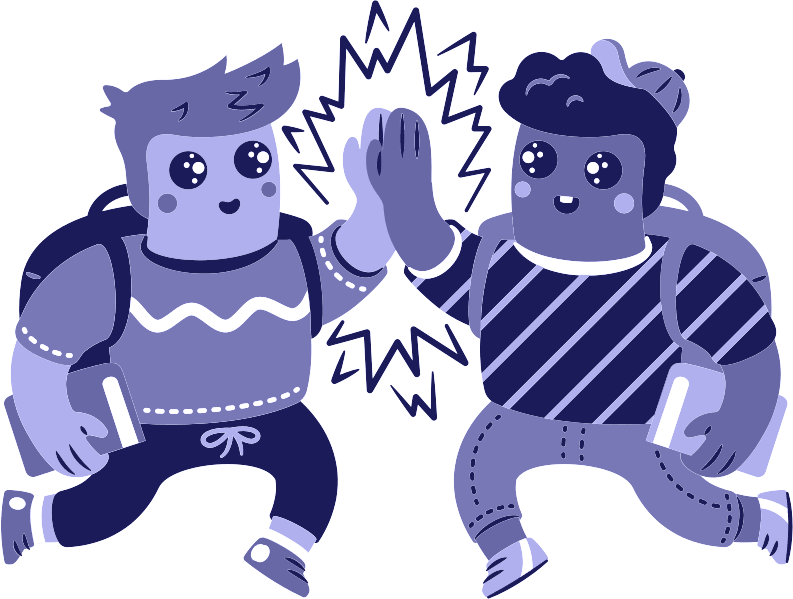
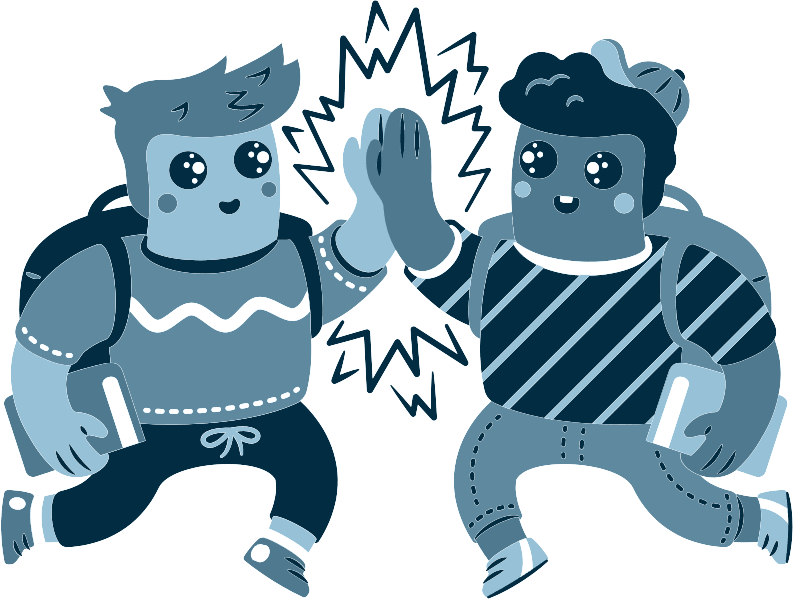
Edited CUI.php copywriting and styling to match the new evaluation content

diff --git a/js/cui.js b/js/cui.js
@@ -146,7 +146,7 @@ let convo = {
   }, // end required "ice" conversation object
 
   "intro_1" : {
-    "says" : [ "Exactly, well done.", "Now let's get to business. Here's what you should know about the project before you see the design:", "<b class='with-image'><img src='/i/feather/tag.svg' alt='Tag icon'>About this Project</b> Bol.com is the leading online shop in the Netherlands for books, toys and electronics that serve over 10.5 million customers."],
+    "says" : [ "Exactly, well done.", "Now let's get to business. Here's what you should know about the project before you see the design:", "<b class='with-image'><img src='/i/feather/tag.svg' alt='Tag icon'>About this Project</b> The Government.nl website is the place where you'll find reliable information on what the Dutch government — together with other organisations — is doing. The website contains the latest official information on pressing issues and their legislation.", "Please note that the website’s contents that are used for this evaluation <b>have been edited</b> to introduce a number of usability issues — the content that you see is not representative for the Government.nl website."],
     "reply": [
       {
         "question": "Tell me more.",
@@ -156,7 +156,7 @@ let convo = {
   }, // end conversation object
 
   "intro_2" : {
-    "says" : [ "<b class='with-image'><img src='/i/feather/users.svg' alt='Users icon'>Target Users</b> Bol.com mainly serves customers in the Netherlands (72%) and Belgium (14%), across all age groups.", "That's all for now. Whenever you're ready, you can click on the next button to unveil the design."],
+    "says" : [ "<b class='with-image'><img src='/i/feather/users.svg' alt='Users icon'>Target Users</b> With Government.nl, the Dutch government seeks to provide online information that is user friendly and accessible to all types of visitors.", "That's all for now. Whenever you're ready, you can click on the next button to unveil the design."],
     "reply": [
       {
         "question": "Show me!",
@@ -166,7 +166,7 @@ let convo = {
   }, // end conversation object
 
   "intro_3" : {
-    "says" : [ "See? The interface just became a whole lot more visible.", "If you want, you can get a general impression of the design: try moving your cursor to the frame and scroll.", "If you're ready to continue the evaluation, just let me know!"],
+    "says" : [ "See? The interface just became a whole lot more visible.", "If you want, you can get a general impression of the design: try moving your cursor to the frame and scroll up or down to see what happens.", "If you're ready to continue the evaluation, just let me know!"],
     "reply": [
       {
         "question": "I’m ready!", /* Careful: framework does not support ' characters in question. Use the ’ character instead. */
@@ -186,7 +186,7 @@ let convo = {
   }, // end conversation object
 
   "tasks_2" : {
-    "says" : [ "Here's the scenario you should act out using the prototype:", "<i>Your name is Frederic — a 62 year old Dutch male from the Veldhoven area. Your Epson printer just broke down for the last time, and is in dire need of replacement.</i>", "1. You opened the Bol.com page to order a new one. However, there are some restrictions: The printer should <span class='underlined'>cost less than €90</span>. It should be able to <span class='underlined'>print in full-colour</span>. Finally, <span class='underlined'>you don't want an Epson brand printer</span>.", "2. Your task is to use the Bol.com website to find a suitable new printer, and add it to your shopping basket.", "When you’re ready to start the task, click on the button. "],
+    "says" : [ "Here's the scenario you should act out using the prototype:", "<i>Your name is Frederic: a 44 year old expat living in the Eindhoven area. As the owner of a business without employees (ZZP), the uncertain times caused by the Corona Crisis have put a strain on your financial situation.</i>", "1. You recall that the prime minister discussed options for financial support in a press conference, some time ago. However, you forgot what it was called, and whether it is applicable for you.", "2. Your task is to use the government.nl website to find reliable information on the financial support: you want to know the measure's name and the amount of financial support you can get.", "When you’re ready to start the task, click on the button."],
     "reply": [
       {
         "question": "I’m ready.",
@@ -210,7 +210,7 @@ let convo = {
   }, // end conversation object
 
   "tasks_4a" : {
-    "says" : [ "That's awesome!", "I have a few questions about how you experienced using the prototype.", "I will be sharing <b>ten general principles</b> on what make a user interface usable. For each principle, please state <b>whether you think there is a problem.</b>", "You can do so using the scale of <b>0 to 4</b>, where '0' means <b>no problem</b> and '4' signifies <b>a usability catastrophe</b>. Hover over the ratings with your cursor to see a more elaborate description.", "Finally, if you believe the question is irrelevant or cannot be answered, please answer ’0’."],
+    "says" : [ "That's awesome!", "I have a few questions about how you experienced using the prototype.", "I will be sharing <b>ten general principles</b> on what make a user interface usable. For each principle, please recall your experience with the prototype and state <b>whether you think there is a problem.</b>", "You can do so using the scale of <b>0 to 4</b>, where '0' means <b>no problem</b> and '4' signifies <b>a usability catastrophe</b>. Hover over the ratings with your cursor to see a more elaborate description.", "Finally, if you believe the question is irrelevant or cannot be answered, please answer ’0’."],
     "reply": [
       {
         "question": "Let’s go!",

diff --git a/app/backend/success-styling.css b/app/backend/success-styling.css
@@ -9,7 +9,7 @@
 .hero {
   width: 100%;
   height: 100vh;
-  background: linear-gradient(180deg, #FFFFFF 0%, #F3F3FC 100%);
+  background: linear-gradient(180deg, #FFFFFF 0%, hsla(200, 60%, 97%, 1) 100%);
   display: flex;
   justify-content: center;
 }
@@ -37,7 +37,7 @@ b {
 }
 
 h1 {
-  color: #0000A3;
+  color: hsl(200, 99%, 31%);
   font-size: 2.2em;
   font-weight: 600;
   margin-bottom: .8em;
@@ -54,8 +54,8 @@ p {
 }
 
 .stat {
-  background-color: #F3F3FC;
-  color: #0000A3;
+  background-color: hsl(200, 30%, 95%);
+  color: hsl(200, 99%, 31%);
   display: flex;
   justify-content: center;
   align-items: center;
@@ -92,10 +92,10 @@ p {
 .stat-buttons button {
   width: 100%;
   font-family: 'Sen', sans-serif;
-  background-color: #F3F3FC;
-  border: 1px solid #0000A3;
+  background-color: hsl(200, 30%, 94%);
+  border: 1px solid hsl(200, 99%, 31%);
   box-sizing: border-box;
-  color: #0000A3;
+  color: hsl(200, 99%, 31%);
   cursor: pointer;
   padding: .4em;
   font-size: 1em;
@@ -104,12 +104,12 @@ p {
 }
 
 .stat-buttons button.active {
-  background-color: #0000A3;
+  background-color: hsl(200, 99%, 31%);
   color: #fff;
 }
 
 .stat-buttons button:hover {
-  background-color: #0000A3;
+  background-color: hsl(200, 99%, 31%);
   color: #fff;
 }
 
@@ -125,7 +125,7 @@ p {
 }
 
 .call-to-action {
-  background-color: #0000A3;
+  background-color: hsl(200, 99%, 31%);
   color: #fff;
   box-sizing: border-box;
   cursor: pointer;

diff --git a/css/bubbles.css b/css/bubbles.css
@@ -10,8 +10,8 @@
 .bubble-container .input-wrap textarea {
 	width: calc(100% - 20px);
   font-family: "Sen", sans-serif;
-  color: var(--branding);
-  background: rgb(249, 248, 255);
+  color: hsla(200, 99%, 21%, 1);
+  background: hsla(200, 100%, 99%, 1);
   font-size: 1em;
   letter-spacing: .5px;
   font-weight: 400;
@@ -39,7 +39,7 @@
 }
 
 .bubble-container .input-wrap textarea::placeholder {
-  color: hsl(240, 24%, 56%);
+  color: hsl(200, 24%, 56%);
 }
 .bubble.reply-freeform {
 	margin: 0;
@@ -189,7 +189,7 @@
 .bubble,
 .bubble-typing {
   color: #212121;
-  background: hsla(246, 10%, 95%, 1);
+  background: hsla(200, 10%, 95%, 1);
   padding: 8px 16px;
   border-radius: 5px 15px 15px 15px;
   font-weight: 400;
@@ -293,7 +293,7 @@
 .dot_3 { animation-delay: 1.35s; }
 @keyframes bounce_dot {
 	0% {}
-	50% { background-color: hsl(246, 26%, 50%); }
+	50% { background-color: hsl(200, 26%, 50%); }
 	100% {}
 }
 
@@ -307,7 +307,7 @@
 	display: flex;
 	margin: .5em 0;
   padding-bottom: .5em;
-	border-bottom: 2px solid #cdcddc;
+	border-bottom: 2px solid hsla(200, 18%, 83%, 1)
 }
 
 .bubble .bubble-content b img {

diff --git a/app/backend/success.js b/app/backend/success.js
@@ -77,7 +77,7 @@ function checkUserPerformance() {
   }
 
   // For this case, the 'right' answers are problems in heuristics [1,4] and [9].
-  let faultyHeuristics = [0, 1, 2, 3, 8];
+  let faultyHeuristics = [0, 1, 2, 3, 5, 8];
   // Compare userAnswers to right answers
   for (i = 0; i < faultyHeuristics.length; i++) {
     // For each

diff --git a/app/gui.php b/app/gui.php
@@ -56,7 +56,7 @@
         <div class="evaluation-intro">
           <h1>Government.nl &mdash; UX Design Evaluation</h1>
           <h2><img src="/i/feather/tag.svg" alt="Tag icon"/>About the Project</h2>
-          <p style="margin-bottom: 1em;">The Government.nl website is the place where reliable information on what the Dutch government &mdash; together with other organisations &mdash; is doing. The website contains the latest official information on pressing issues and their legislation.</p>
+          <p style="margin-bottom: 1em;">The Government.nl website is the place where you'll find reliable information on what the Dutch government &mdash; together with other organisations &mdash; is doing. The website contains the latest official information on pressing issues and their legislation.</p>
           <p>Please note that the website's contents that are used for this evaluation <b>have been edited</b> to introduce a number of usability issues &mdash; the content that you see is not representative for the Government.nl website.</p>
 
           <h2><img src="/i/feather/users.svg" alt="Users icon"/>Target Users</h2>
@@ -111,7 +111,7 @@
           <div class="form_section conditional">
             <h2><img src="/i/feather/image.svg" alt="Image icon"/>Heuristic Evaluation</h2>
             <p><i><span id="conditionalContent">You successfully completed the scenario. Fantastic!</span></i></p>
-            <p>We are interested in your <b>Heuristic Evaluation</b> of the design you've just seen. You will be shown <b>ten general principles</b> on what makes a user interface usable. For each principle, please recall your experience with the prototype, and state <b>whether you think there is a problem</b> with that principle.</p>
+            <p>We are interested in your <b>Heuristic Evaluation</b> of the design you've just seen. You will be shown <b>ten general principles</b> on what makes a user interface usable. For each principle, please recall your experience with the prototype and state <b>whether you think there is a problem</b> with that principle.</p>
             <p>You can do so using the scale of <b>0 to 4</b>, where '0' means </b>no problem</b> and '4' signifies <b>a usability catastrophe</b>. Hover over the ratings with your cursor to see a more elaborate description.</p>
             <p>Finally, if you believe a question is irrelevant or cannot be answered, please answer ’0’.</p>
           </div>

diff --git a/app/backend/success.php b/app/backend/success.php
@@ -33,7 +33,7 @@
         </div>
         <div class="stat">
           <div class="stat--icon"><img src="search-icon.png" alt="search icon"></div>
-          <div class="stat--text">You found <b><span class="stat--dynamic-content" id="issuesFound">0</span> out of 5 usability issues</b>. <span id="issuesFoundAppraisal">Better luck next time!</span></div>
+          <div class="stat--text">You found <b><span class="stat--dynamic-content" id="issuesFound">0</span> out of 6 usability issues</b>. <span id="issuesFoundAppraisal">Better luck next time!</span></div>
         </div>
         <div class="stat">
           <div class="stat--text"><b>Optional:</b> Would you be interested in helping us with other evaluations in the future?</div>
